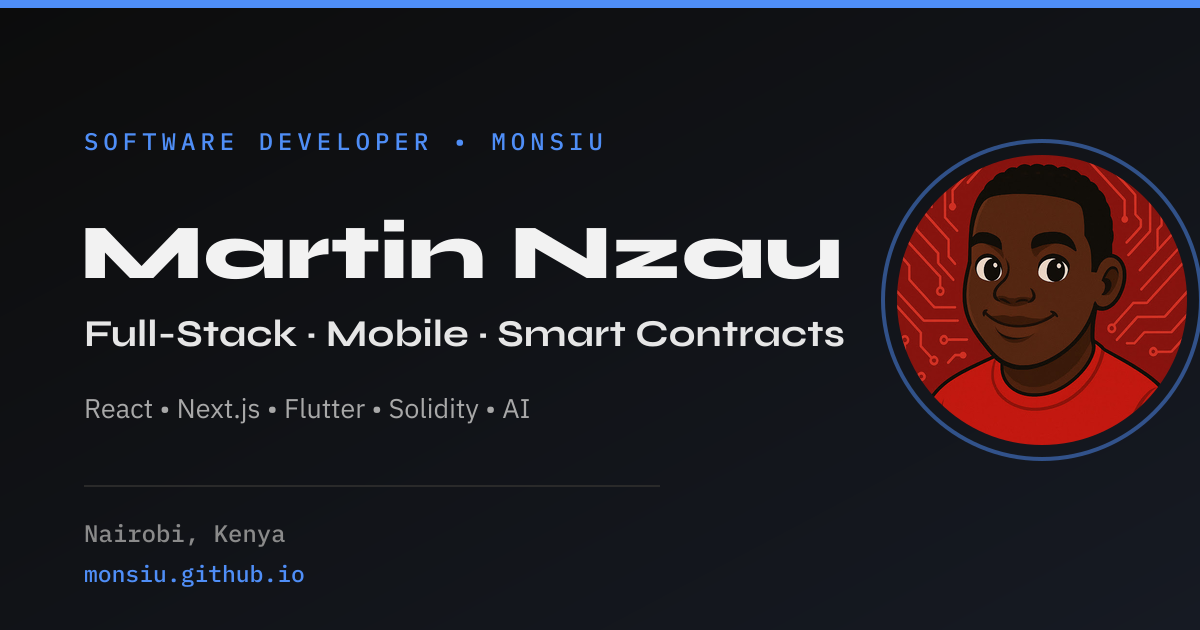
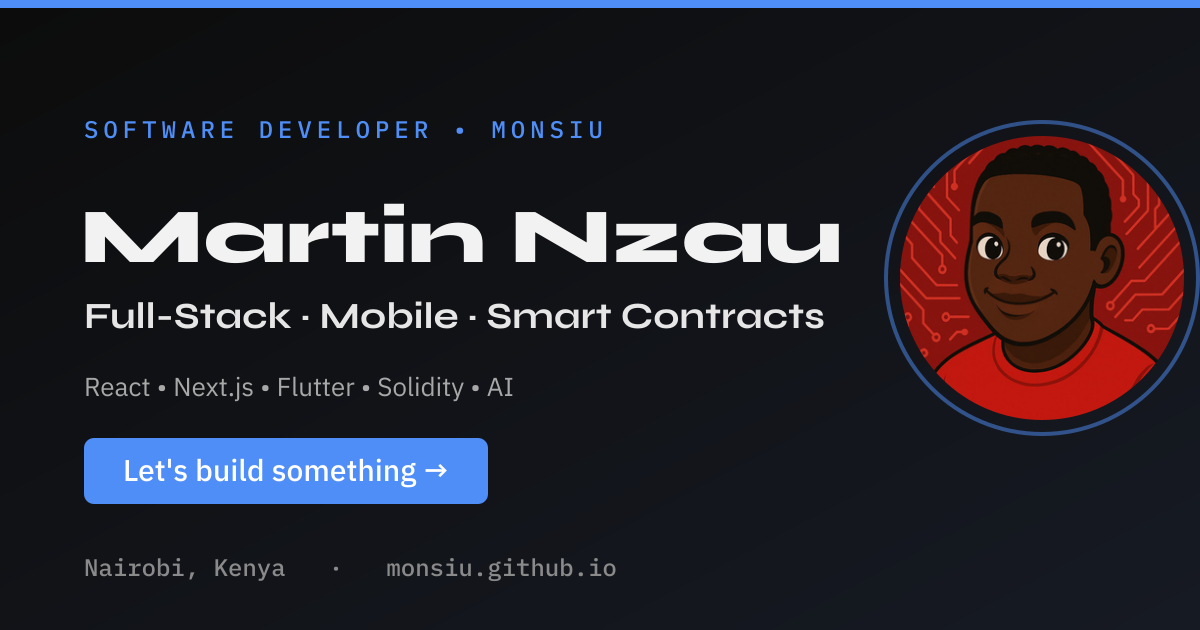
SEO: trim titles/descriptions to length limits, add og:site_name, add CTA to OG image

diff --git a/index.html b/index.html
@@ -20,8 +20,8 @@
   </script>
   <script defer src="/consent.js"></script>
   <script defer src="/release.js"></script>
-  <title>Martin Nzau (Monsiu) - Full-Stack, Mobile & Solidity Developer | Nairobi, Kenya</title>
-  <meta name="description" content="Martin Nzau (Monsiu): full-stack developer in Nairobi, Kenya. I build production web apps, Android apps with Flutter, and onchain smart contracts. Hackathon contributor across AMD, Arc Blockchain, TechEx, and Milan AI Week. Verified Upwork freelancer." />
+  <title>Martin Nzau (Monsiu) - Full-Stack & Mobile Developer</title>
+  <meta name="description" content="Full-stack developer in Nairobi building web apps, Flutter Android apps, and onchain smart contracts. Verified Upwork freelancer and hackathon builder." />
   <meta name="keywords" content="Martin Nzau, Monsiu, full-stack developer Nairobi, Kenya software developer, Flutter Android developer, Solidity developer, React developer, Next.js developer, smart contract developer, AI integration, hackathon developer, Upwork freelancer" />
   <meta name="author" content="Martin Nzau" />
   <meta name="geo.region" content="KE-30" />
@@ -33,8 +33,9 @@
   <link rel="apple-touch-icon" href="/profile.png" />
   <meta name="theme-color" content="#0C0C0C" />
   <meta property="og:type" content="website" />
-  <meta property="og:title" content="Martin Nzau (Monsiu) - Full-Stack, Mobile & Solidity Developer" />
-  <meta property="og:description" content="Full-stack developer in Nairobi building web apps, Flutter Android apps, and onchain smart contracts. Recent work: Custom RR v1.1.0 (cross-platform ROM/recovery hub, 47+ GitHub stars, with native Android, Windows, macOS, and Linux builds), GeminEYE AI contract analyzer, NanoPay onchain micropayments (Arc Blockchain), Aegis SRE Guardian." />
+  <meta property="og:site_name" content="Monsiu Tech" />
+  <meta property="og:title" content="Martin Nzau (Monsiu) - Full-Stack & Mobile Developer" />
+  <meta property="og:description" content="Full-stack, mobile & smart contract developer in Nairobi. I build web apps, Flutter Android apps, and onchain smart contracts." />
   <meta property="og:url" content="https://monsiu.github.io/" />
   <meta property="og:image" content="https://monsiu.github.io/og-image.png" />
   <meta property="og:image:width" content="1200" />
@@ -44,7 +45,7 @@
   <meta name="twitter:card" content="summary_large_image" />
   <meta name="twitter:site" content="@MonsiuTech" />
   <meta name="twitter:creator" content="@MonsiuTech" />
-  <meta name="twitter:title" content="Martin Nzau (Monsiu) - Full-Stack, Mobile & Solidity Developer" />
+  <meta name="twitter:title" content="Martin Nzau (Monsiu) - Full-Stack & Mobile Developer" />
   <meta name="twitter:description" content="Web, Android, and onchain smart contract developer in Nairobi. Hackathon builder. Verified Upwork freelancer." />
   <meta name="twitter:image" content="https://monsiu.github.io/og-image.png" />
   <meta name="twitter:image:alt" content="Martin Nzau (Monsiu), full-stack, mobile and smart contract developer" />

diff --git a/services/index.html b/services/index.html
@@ -19,16 +19,17 @@
     gtag('config', 'G-VJZYEZ8XEN');
   </script>
   <script defer src="/consent.js"></script>
-  <title>Web, Mobile & Smart Contract Development Services - Martin Nzau (Monsiu) | Nairobi</title>
-  <meta name="description" content="Hire Martin Nzau (Monsiu) for web app development, Android apps with Flutter, and Solidity smart contracts. Based in Nairobi, Kenya, available worldwide. Verified Upwork freelancer with hackathon-tested AI and onchain experience." />
+  <title>Hire a Full-Stack, Mobile & Solidity Developer | Monsiu</title>
+  <meta name="description" content="Hire Martin Nzau (Monsiu) for web app development, Flutter Android apps, and Solidity smart contracts. Nairobi-based, available worldwide. Verified on Upwork." />
   <meta name="keywords" content="hire full-stack developer Nairobi, Flutter Android developer for hire, Solidity smart contract developer, Next.js developer Kenya, freelance web developer Nairobi, AI integration developer, Upwork freelancer Kenya" />
   <link rel="canonical" href="https://monsiu.github.io/services/" />
   <link rel="icon" type="image/png" href="/profile.png" />
   <link rel="apple-touch-icon" href="/profile.png" />
   <meta name="theme-color" content="#0C0C0C" />
   <meta property="og:type" content="website" />
-  <meta property="og:title" content="Web, Mobile & Smart Contract Development Services - Martin Nzau (Monsiu)" />
-  <meta property="og:description" content="Hire a full-stack developer for web apps, Flutter Android apps, and Solidity smart contracts. Nairobi-based, worldwide availability. Verified Upwork freelancer." />
+  <meta property="og:site_name" content="Monsiu Tech" />
+  <meta property="og:title" content="Hire a Full-Stack, Mobile & Solidity Developer | Monsiu" />
+  <meta property="og:description" content="Hire a full-stack, mobile & smart contract developer. Web apps, Flutter Android apps, and Solidity. Nairobi-based, worldwide." />
   <meta property="og:url" content="https://monsiu.github.io/services/" />
   <meta property="og:image" content="https://monsiu.github.io/og-image.png" />
   <meta property="og:image:width" content="1200" />
